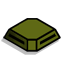
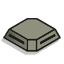
changed a couple of graphics

Changed region(s): [[0.0625, 0.2812, 0.9375, 0.8125]]

diff --git a/src/com/crackedcarrot/GameLoop.java b/src/com/crackedcarrot/GameLoop.java
@@ -54,7 +54,7 @@ public class GameLoop implements Runnable {
     protected Tower[]    mTower;
     protected Tower[][]  mTowerGrid;
     protected Tower[]    mTTypes;
-
+    protected Sprite[]   mSpecialTowers;
     // Tracker for finding creatures
     private Tracker gameTracker;
     
@@ -126,6 +126,20 @@ public class GameLoop implements Runnable {
 				mLvl[i].setDeadTexture(renderHandle.getTexture(mLvl[i].getDeadResourceId()));
 			}
 			
+			mSpecialTowers = new Sprite[6];
+			mSpecialTowers[0] = new Sprite();
+			mSpecialTowers[0].setCurrentTexture(renderHandle.getTexture(R.drawable.tesla_special_1));
+			mSpecialTowers[1] = new Sprite();
+			mSpecialTowers[1].setCurrentTexture(renderHandle.getTexture(R.drawable.tesla_special_2));
+			mSpecialTowers[2] = new Sprite();
+			mSpecialTowers[2].setCurrentTexture(renderHandle.getTexture(R.drawable.tesla_special_3));
+			mSpecialTowers[3] = new Sprite();
+			mSpecialTowers[3].setCurrentTexture(renderHandle.getTexture(R.drawable.poisontower_special_1));
+			mSpecialTowers[4] = new Sprite();
+			mSpecialTowers[4].setCurrentTexture(renderHandle.getTexture(R.drawable.poisontower_special_2));
+			mSpecialTowers[5] = new Sprite();
+			mSpecialTowers[5].setCurrentTexture(renderHandle.getTexture(R.drawable.poisontower_special_3));
+				
 						
 		} catch (InterruptedException e) {
 			e.printStackTrace();
@@ -328,9 +342,9 @@ public class GameLoop implements Runnable {
     				// (we dont need sanity checking here, unless the game corrupts itself this cannot be abused)
     			if (Integer.parseInt(tower[7]) == 1) {
     			    superupgrade_teleport = true;
-    			    t.upgradeSuperAbility(10000);
+    			    t.upgradeSuperAbility(10000,mSpecialTowers);
     			} else if (Integer.parseInt(tower[7]) == 2) {
-    				t.upgradeSuperAbility(10000);
+    				t.upgradeSuperAbility(10000,mSpecialTowers);
     			    superupgrade_element = true;
     			}
     			
@@ -723,10 +737,28 @@ public class GameLoop implements Runnable {
     				player.moneyFunction(-mTTypes[upgradeIndex].getPrice());
     				updateCurrency();
     				t.createTower(mTTypes[upgradeIndex], null, mScaler, gameTracker, true);
+    				
+    				
     				try {
-    					TextureData tex = renderHandle.getTexture(t.getResourceId());
-    					t.setCurrentTexture(tex);
-    					//tex = renderHandle.getTexture(t.relatedShot.getResourceId());
+        				if (t.towerType == Tower.TELSA && t.getSuperTeleport()) {
+        					if (t.getUpgradeTowerLvl() == 11)
+        						t.setCurrentTexture(mSpecialTowers[1].getCurrentTexture());
+        					if (t.getUpgradeTowerLvl() == -1)
+        						t.setCurrentTexture(mSpecialTowers[2].getCurrentTexture());
+
+        				}
+        				else if (t.towerType == Tower.AOE && t.getSuperElement()) {
+        					if (t.getUpgradeTowerLvl() == 10)
+        						t.setCurrentTexture(mSpecialTowers[4].getCurrentTexture());
+        					if (t.getUpgradeTowerLvl() == -1)
+        						t.setCurrentTexture(mSpecialTowers[5].getCurrentTexture());
+
+        				}
+        				else {
+        					TextureData tex = renderHandle.getTexture(t.getResourceId());
+    						t.setCurrentTexture(tex);
+        				}
+   						//tex = renderHandle.getTexture(t.relatedShot.getResourceId());
     					//t.relatedShot.setCurrentTexture(tex);
     				} catch (InterruptedException e) {
     					e.printStackTrace();
@@ -798,7 +830,7 @@ public class GameLoop implements Runnable {
     private void upgradeSuperTower() {
 		if(selectedTower != null){
 			Tower t = mTowerGrid[selectedTower.x][selectedTower.y];
-			int price = t.upgradeSuperAbility(player.getMoney());
+			int price = t.upgradeSuperAbility(player.getMoney(),mSpecialTowers);
 			if (price != 0) {
 				if (t.getTowerType() == Tower.AOE)
 					this.superupgrade_element = true;

diff --git a/src/com/crackedcarrot/Tower.java b/src/com/crackedcarrot/Tower.java
@@ -627,9 +627,9 @@ public class Tower extends Sprite {
 			if (this.getUpgradePoison() == 0 && money >= 30) {
 				this.hasPoisonDamage = true;
 				this.poisonFactor = 0.2f;
-				this.r = 0.7f;
+				this.r = 0.6f;
 				this.g = 1;
-				this.b = 0.7f;
+				this.b = 0.6f;
 				this.relatedShot.r = 0.7f;
 				this.relatedShot.g = 1;
 				this.relatedShot.b = 0.7f;
@@ -651,14 +651,18 @@ public class Tower extends Sprite {
 	}
 
 	
-	public int upgradeSuperAbility(int money) {
+	public int upgradeSuperAbility(int money, Sprite[] mSpecialTowers) {
 		int price = 0;
 		if (money >= 100) {
 			if (this.towerType == Tower.AOE) {
 				this.hasSuper_element = true;
-				this.r = 0.7f;
-				this.g = 0.7f;
-				this.b = 1f;
+				if (this.upgradeLvl == 6)
+					this.setCurrentTexture(mSpecialTowers[3].getCurrentTexture());
+				else if (this.upgradeLvl == 10)
+					this.setCurrentTexture(mSpecialTowers[4].getCurrentTexture());
+				else if (this.upgradeLvl == -1)
+					this.setCurrentTexture(mSpecialTowers[5].getCurrentTexture());
+				
 				this.relatedShot.r = 0.7f;
 				this.relatedShot.g = 0.7f;
 				this.relatedShot.b = 1f;
@@ -666,10 +670,14 @@ public class Tower extends Sprite {
 			}
 			if (this.towerType == Tower.TELSA) {
 				this.hasSuper_teleport = true;
-				this.r = 0.7f;
-				this.g = 1f;
-				this.b = 0.7f;
-				this.relatedShot.r = 0.7f;
+				if (this.upgradeLvl == 7)
+					this.setCurrentTexture(mSpecialTowers[0].getCurrentTexture());
+				else if (this.upgradeLvl == 11)
+					this.setCurrentTexture(mSpecialTowers[1].getCurrentTexture());
+				else if (this.upgradeLvl == -1)
+					this.setCurrentTexture(mSpecialTowers[2].getCurrentTexture());
+
+				this.relatedShot.r = 1f;
 				this.relatedShot.g = 1f;
 				this.relatedShot.b = 0.7f;
 				price = 100;

diff --git a/res/raw/map1_textures.tex b/res/raw/map1_textures.tex
@@ -37,12 +37,18 @@ cannontower3 1
 tesla1 1
 tesla2 1
 tesla3 1
+tesla_special_1 1
+tesla_special_2 1
+tesla_special_3 1
 bunker1 1
 bunker2 1
 bunker3 1
 poisontower1 1
 poisontower2 1
 poisontower3 1
+poisontower_special_1 1
+poisontower_special_2 1
+poisontower_special_3 1
 throwingstar 8
 cannonshot 16
 cannonshot_ice 16

diff --git a/res/raw/map2_textures.tex b/res/raw/map2_textures.tex
@@ -37,12 +37,18 @@ cannontower3 1
 tesla1 1
 tesla2 1
 tesla3 1
+tesla_special_1 1
+tesla_special_2 1
+tesla_special_3 1
 bunker1 1
 bunker2 1
 bunker3 1
 poisontower1 1
 poisontower2 1
 poisontower3 1
+poisontower_special_1 1
+poisontower_special_2 1
+poisontower_special_3 1
 throwingstar 8
 cannonshot 16
 cannonshot_ice 16

diff --git a/res/raw/map3_textures.tex b/res/raw/map3_textures.tex
@@ -37,12 +37,18 @@ cannontower3 1
 tesla1 1
 tesla2 1
 tesla3 1
+tesla_special_1 1
+tesla_special_2 1
+tesla_special_3 1
 bunker1 1
 bunker2 1
 bunker3 1
 poisontower1 1
 poisontower2 1
 poisontower3 1
+poisontower_special_1 1
+poisontower_special_2 1
+poisontower_special_3 1
 throwingstar 8
 cannonshot 16
 cannonshot_ice 16

diff --git a/res/raw/map4_textures.tex b/res/raw/map4_textures.tex
@@ -37,12 +37,18 @@ cannontower3 1
 tesla1 1
 tesla2 1
 tesla3 1
+tesla_special_1 1
+tesla_special_2 1
+tesla_special_3 1
 bunker1 1
 bunker2 1
 bunker3 1
 poisontower1 1
 poisontower2 1
 poisontower3 1
+poisontower_special_1 1
+poisontower_special_2 1
+poisontower_special_3 1
 throwingstar 8
 cannonshot 16
 cannonshot_ice 16

diff --git a/res/raw/map5_textures.tex b/res/raw/map5_textures.tex
@@ -37,12 +37,18 @@ cannontower3 1
 tesla1 1
 tesla2 1
 tesla3 1
+tesla_special_1 1
+tesla_special_2 1
+tesla_special_3 1
 bunker1 1
 bunker2 1
 bunker3 1
 poisontower1 1
 poisontower2 1
 poisontower3 1
+poisontower_special_1 1
+poisontower_special_2 1
+poisontower_special_3 1
 throwingstar 8
 cannonshot 16
 cannonshot_ice 16

diff --git a/res/raw/map6_textures.tex b/res/raw/map6_textures.tex
@@ -37,12 +37,18 @@ cannontower3 1
 tesla1 1
 tesla2 1
 tesla3 1
+tesla_special_1 1
+tesla_special_2 1
+tesla_special_3 1
 bunker1 1
 bunker2 1
 bunker3 1
 poisontower1 1
 poisontower2 1
 poisontower3 1
+poisontower_special_1 1
+poisontower_special_2 1
+poisontower_special_3 1
 throwingstar 8
 cannonshot 16
 cannonshot_ice 16
